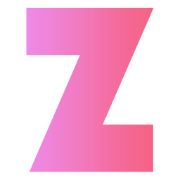
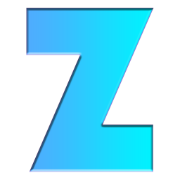
update facicon

diff --git a/src/components/Posts.jsx b/src/components/Posts.jsx
@@ -2,7 +2,6 @@ import moment from "moment";
 import { React, useEffect, useState } from "react";
 import { useHistory } from "react-router-dom";
 import {
-  Button,
   Container,
   Divider,
   Grid,
@@ -46,30 +45,12 @@ export default function Posts(props) {
                     key={a.serialNumber}
                   >
                     <Header as="h1" textAlign="center">
-                      <Icon
-                        name="quote left"
-                        color="olive"
-                        style={{
-                          marginTop: "-2em",
-                          display: "inline-block",
-                          fontSize: "0.7em",
-                        }}
-                      />
                       <a
                         href={"/post/" + a.serialNumber}
                         className="post-title"
                       >
                         {a.title}
                       </a>
-                      <Icon
-                        name="quote right"
-                        color="olive"
-                        style={{
-                          marginTop: "-2em",
-                          display: "inline-block",
-                          fontSize: "0.7em",
-                        }}
-                      />
                     </Header>
                     {props.focus && a.catalog && (
                       <>

diff --git a/src/components/404.jsx b/src/components/404.jsx
@@ -1,17 +1,16 @@
 import { Button, Container, Header, Icon } from "semantic-ui-react";
 import DefaultLayout from "./DefaultLayout";
 import HeadMeta from "./Meta";
+import Spacing from "./Spacing";
 import { TITLE_404 } from "./Vars";
 const NotFoundComponent = () => (
   <>
     <DefaultLayout>
       <Container text textAlign="center" style={{ marginTop: "8rem" }}>
         <HeadMeta title={TITLE_404} />
-        <Header as="h3">
-          <Icon name="search" />
-          Oops ! not Found...
-        </Header>
-        <div>&nbsp;</div>
+        <Header as="h3">Oops ! not Found...</Header>
+        <Spacing />
+        <Spacing />
         <Button as="a" href="/" color="facebook">
           <Icon name="chevron left" />
           Back home

diff --git a/src/css/index-day.css b/src/css/index-day.css
@@ -111,8 +111,8 @@ code {
   font-weight: bold;
   text-align: left;
   color: #000;
-  border-bottom: 2px solid #e0e2e7;
-  box-shadow: 0px 0px 1px 1px #eff1f3;
+  border-bottom: 1px solid #d0d2d6;
+  box-shadow: 0 0 1px 1px #eff1f3;
 }
 .breadmenu .my-logo {
   display: inline-block;
